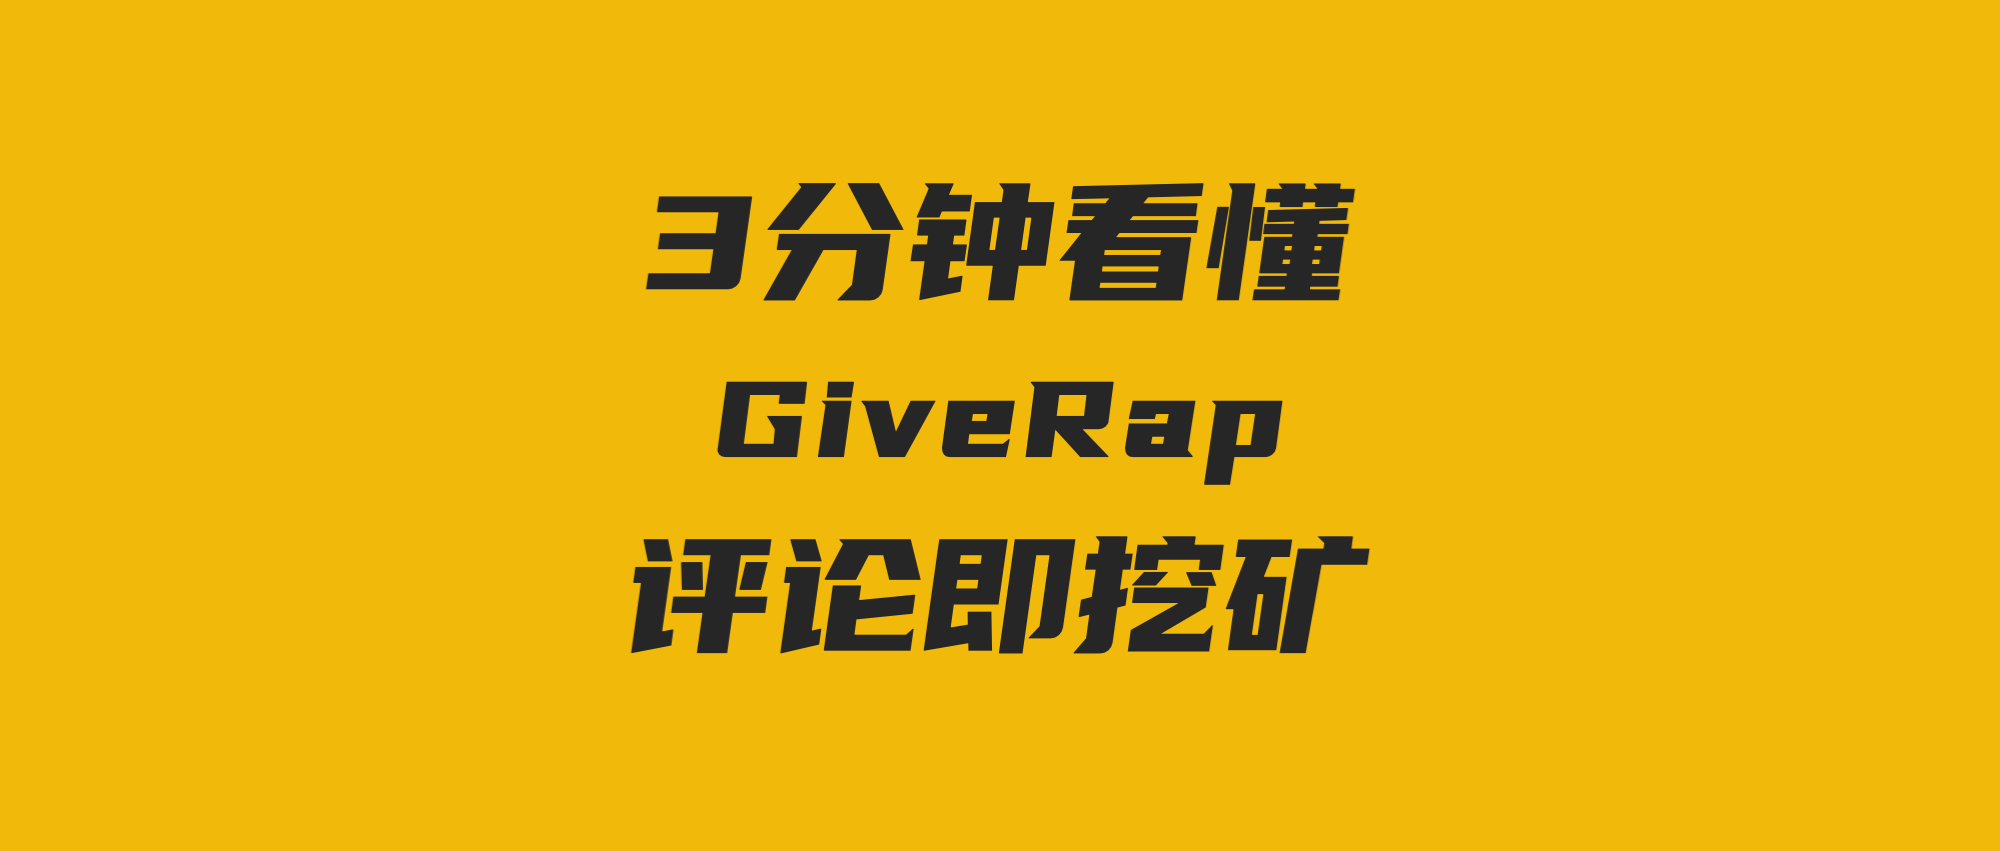
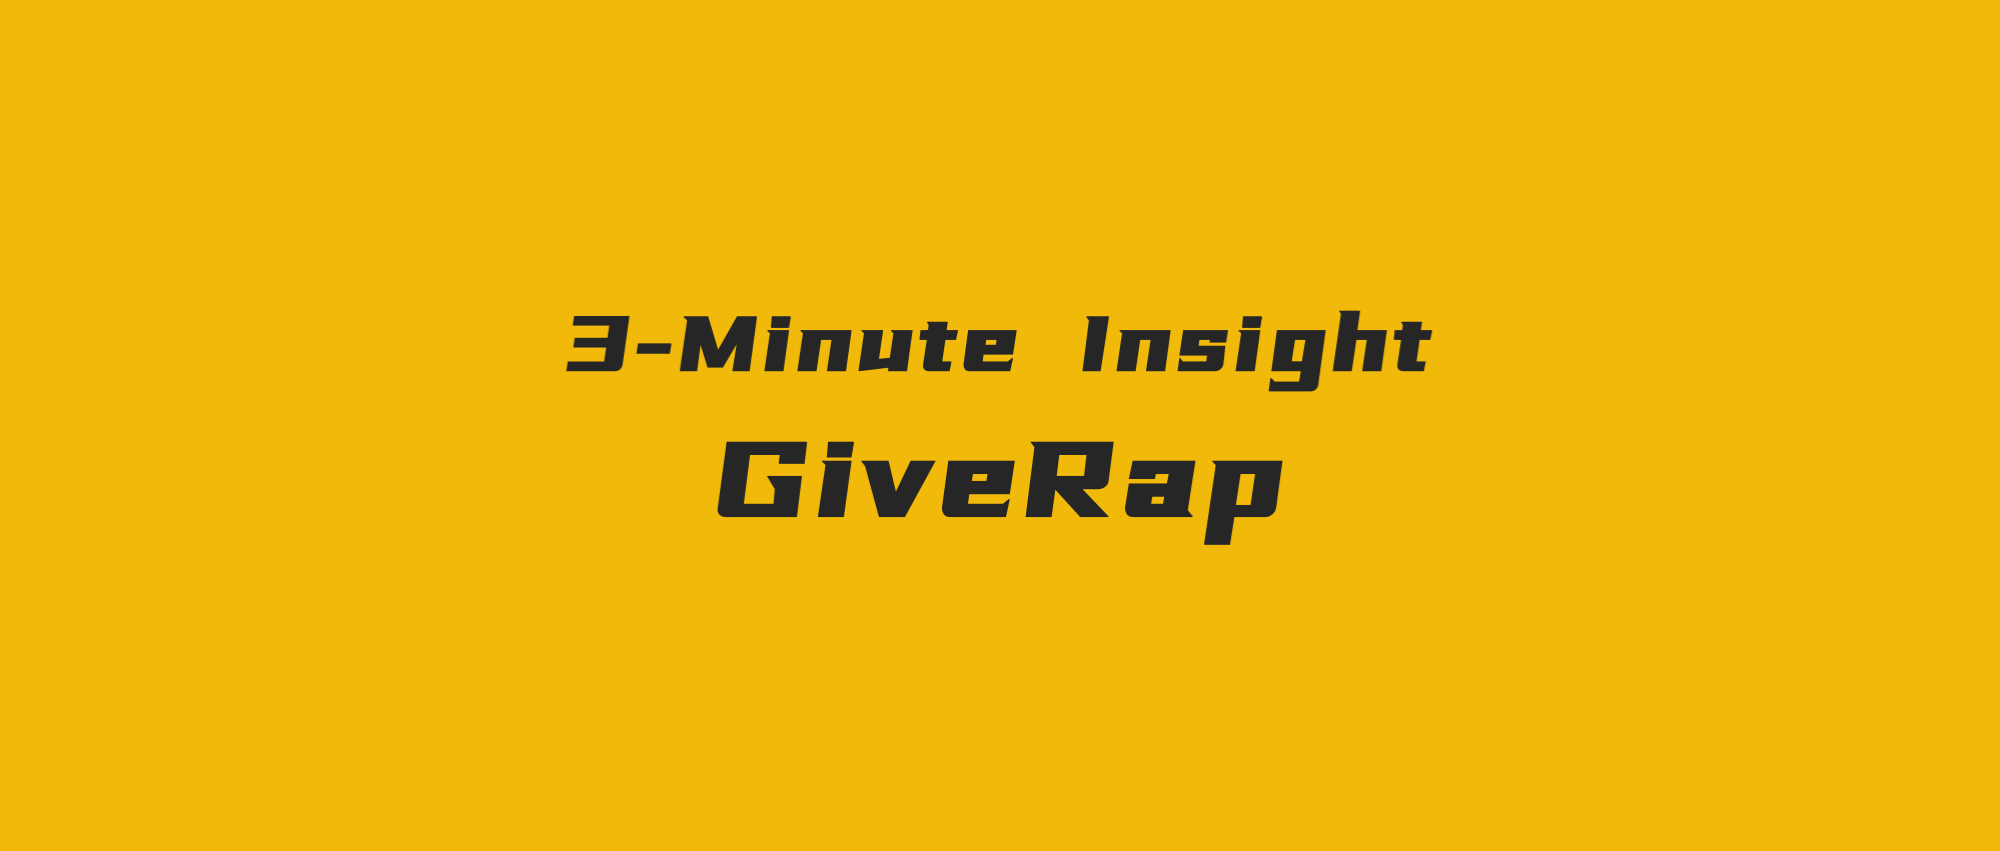
update article

Changed region(s): [[0.279, 0.2139, 0.713, 0.7638]]

diff --git a/README.md b/README.md
@@ -31,6 +31,7 @@
 * [Binance | Product Analysis (1/100)](https://june111.github.io/2023/08/04/binance-product-analysis-en)
 * [OKX｜Product Analysis (2/100)](https://june111.github.io/2023/08/16/okx-product-analysis-en)
 * [Coinbase｜Product Analysis (3/100)](https://june111.github.io/2023/08/31/coinbase-product-analysis-en)
+* [GiveRep｜Product Analysis (6/100) ](https://june111.github.io/2025/08/09/giverep-product-analysis-en)
 
 
 ### 产品管理

diff --git a/_posts/2025-08-09-giverep-product-analysis-en.md b/_posts/2025-08-09-giverep-product-analysis-en.md
@@ -1,6 +1,6 @@
 ---
 title: 'GiveRep｜Product Analysis (6/100) '
-subtitle: '如何用 Web3 的方式重构社交影响力，不再局限于传统的点赞、粉丝数、浏览量...'
+subtitle: 'How to Reconstruct Social Influence with Web3'
 tags: 产品经理
 author: June
 cover: /assets/img/post/2025-08-09/cover.png
